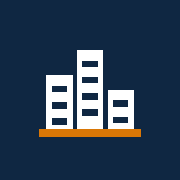
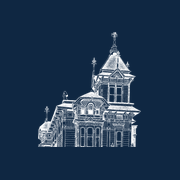
Add files via upload

Changed region(s): [[0.1944, 0.1667, 0.8056, 0.8333]]

diff --git a/pm.html b/pm.html
@@ -11,6 +11,7 @@
 <meta name="apple-mobile-web-app-title" content="المشاريع">
 <meta name="apple-mobile-web-app-status-bar-style" content="default">
 <link rel="apple-touch-icon" href="apple-touch-icon.png">
+<link rel="icon" type="image/png" href="icon-192.png">
 <link href="https://fonts.googleapis.com/css2?family=Tajawal:wght@400;500;700;800&display=swap" rel="stylesheet">
 <script src="https://cdn.jsdelivr.net/npm/@supabase/supabase-js@2"></script>
 <style>
@@ -67,6 +68,11 @@ header h1{margin:0;font-size:19px}.hb{display:flex;gap:8px;align-items:center}.r
 .modal .box{width:100%;max-width:440px;max-height:92vh;overflow:auto}
 .link{white-space:pre-wrap;background:#eff6ff;padding:10px;border-radius:10px;word-break:break-all;font-size:13px;direction:ltr;text-align:left}
 @media(min-width:900px){.cols{grid-template-columns:repeat(3,1fr)}}
+/* ===== الخلفية والشعار ===== */
+body::before{content:"";position:fixed;inset:0;z-index:-1;background:url(bg.jpg) right bottom/cover no-repeat;pointer-events:none}
+.col{background:#e9eef5e6}
+.lg{height:36px;width:auto;vertical-align:middle;margin-inline-start:10px}
+.loginlg{display:block;margin:0 auto 12px;height:110px;width:auto}
 /* ===== توافق الجوال (آيفون وأندرويد) ===== */
 html{-webkit-text-size-adjust:100%;text-size-adjust:100%}
 body{-webkit-tap-highlight-color:transparent;padding-bottom:env(safe-area-inset-bottom);overflow-x:hidden}
@@ -118,7 +124,7 @@ async function init(){
   S.user=data.session?.user||null;S.user?boot():loginView();
 }
 function loginView(msg=""){
-  $("app").innerHTML=`<div class="login box"><h2>تسجيل الدخول</h2>
+  $("app").innerHTML=`<div class="login box"><img class="loginlg" src="logo.png" alt=""><h2 style="text-align:center">تسجيل الدخول</h2>
   <input id="em" placeholder="اسم المستخدم أو البريد الإلكتروني" autocapitalize="none" dir="ltr">
   <input id="pw" type="password" placeholder="كلمة المرور" onkeydown="if(event.key==='Enter')signIn()">
   <div class="msg">${msg}</div><button class="btn" onclick="signIn()">دخول</button></div>`;
@@ -170,7 +176,7 @@ async function loadE(){
 
 /* ===== العرض ===== */
 function render(){
-  const hd=`<header><h1>إدارة المشاريع</h1><div class="hb"><span class="rl">${esc(S.name)} · ${ROLES[S.role]||""}</span>
+  const hd=`<header><h1><img class="lg" src="logo-white.png" alt="">إدارة المشاريع</h1><div class="hb"><span class="rl">${esc(S.name)} · ${ROLES[S.role]||""}</span>
   ${adm()?`<button class="sm" onclick="modal('acc')">الحسابات</button>`:""}<button class="sm" onclick="out()">خروج</button></div></header>`;
   const b=S.role==="none"?'<div class="box note">حسابك بدون صلاحيات، تواصل مع مدير الشركة.</div>':S.cur?proj():home();
   $("app").innerHTML=hd+'<div class="wrap">'+b+'</div>'+(S.modal||S.cred?modalHtml():"");

diff --git a/sw.js b/sw.js
@@ -1,4 +1,4 @@
-const C="co-v1";
+const C="co-v2";
 self.addEventListener("install",()=>self.skipWaiting());
 self.addEventListener("activate",e=>e.waitUntil(
   caches.keys().then(k=>Promise.all(k.filter(x=>x!==C).map(x=>caches.delete(x)))).then(()=>clients.claim())));
